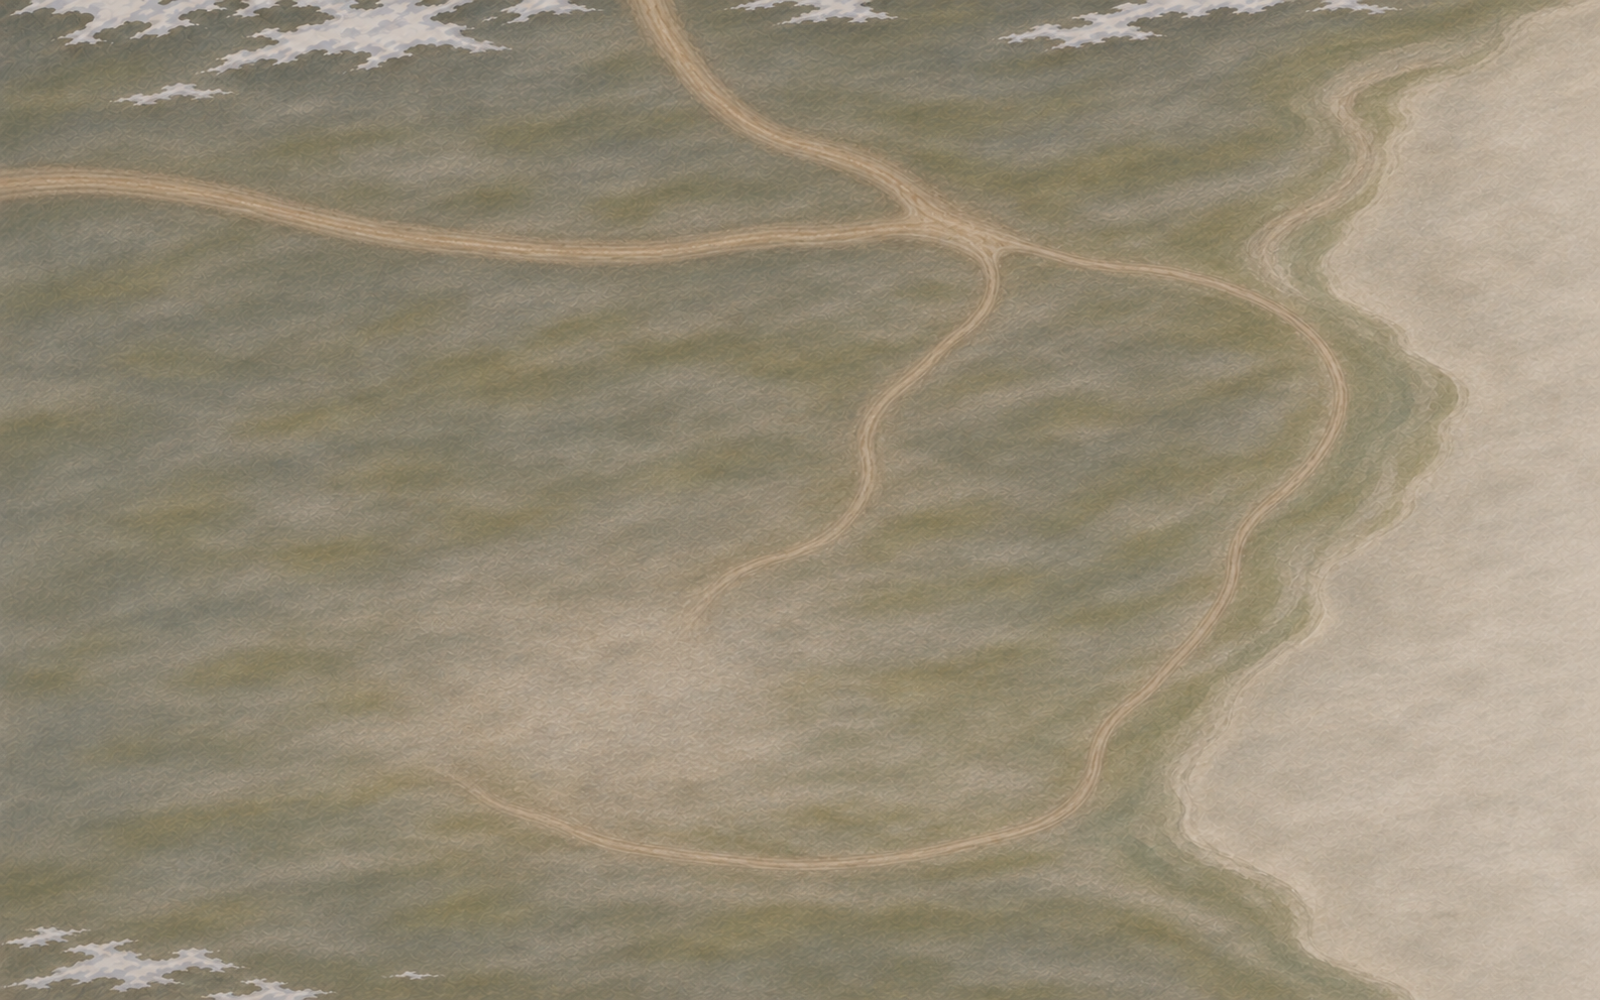
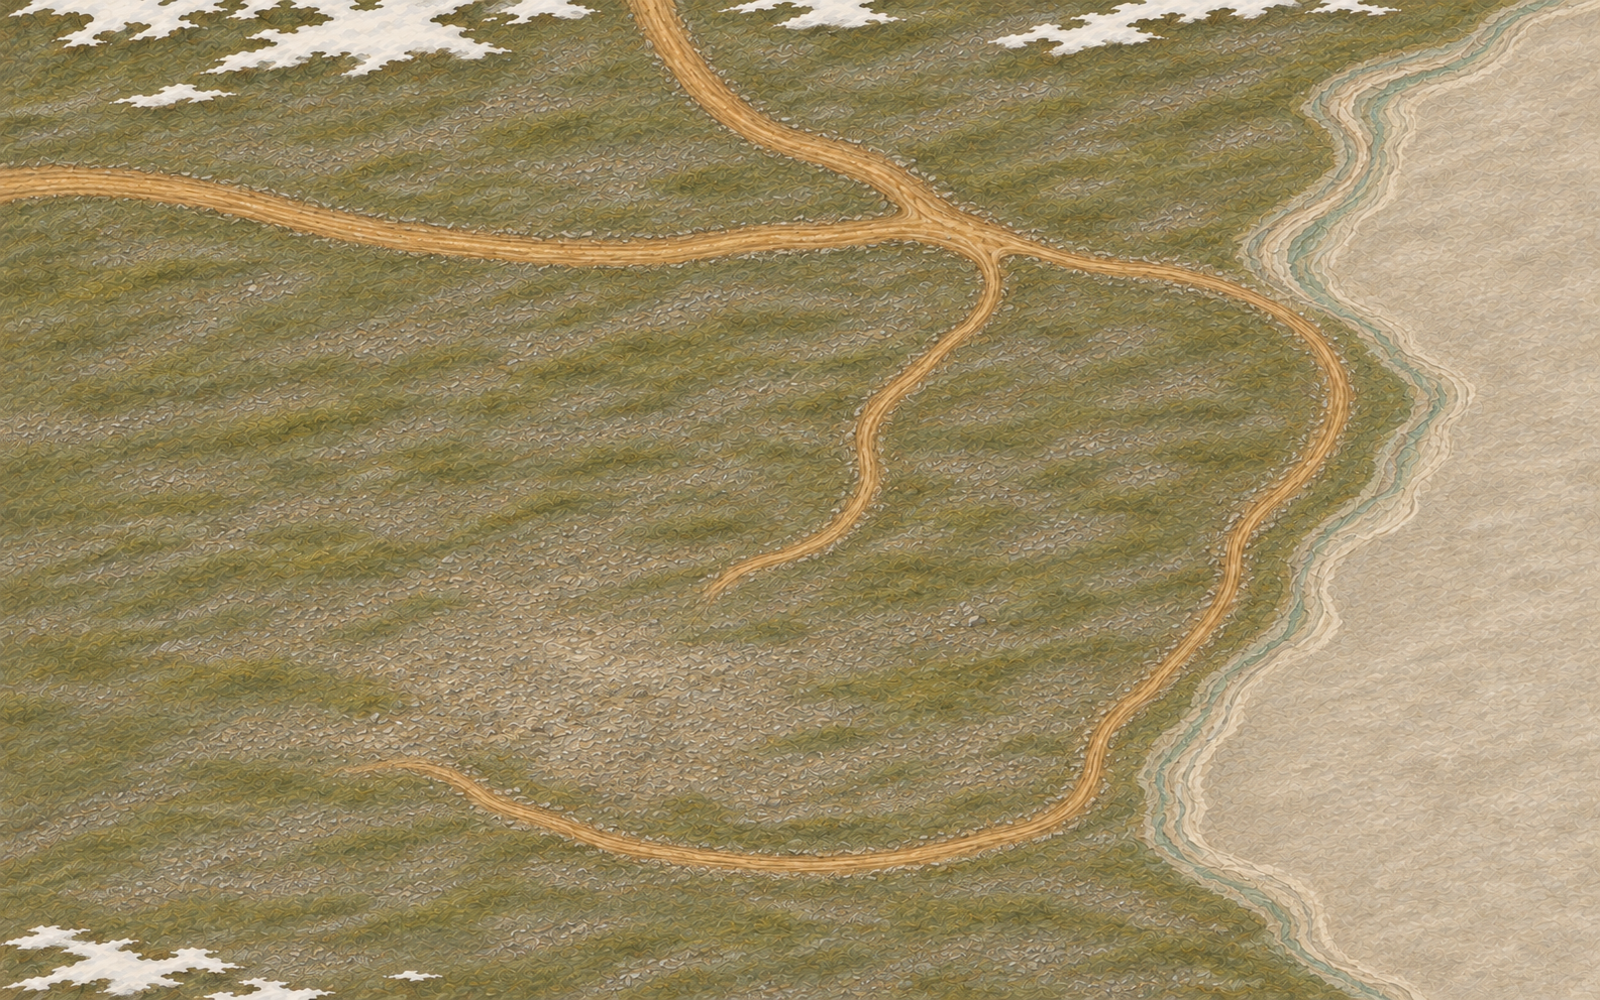
Refine Altai manuscript terrain and frame

diff --git a/tests/unit/altaiTavanBogdLevel.test.ts b/tests/unit/altaiTavanBogdLevel.test.ts
@@ -40,7 +40,7 @@ describe('Altai Tavan Bogd authored level', () => {
     expect(ALTAI_TAVAN_BOGD.world).toMatchObject({
       width: 6400,
       height: 4000,
-      terrainSize: 6400,
+      terrainSize: 8000,
       minX: -3200,
       minY: -2000,
       campClearRadius: 520,
@@ -51,6 +51,21 @@ describe('Altai Tavan Bogd authored level', () => {
     expect(ALTAI_TAVAN_BOGD.rise).toBe(240);
     expect(ALTAI_TAVAN_BOGD.plateaus).toHaveLength(1);
     expect(ALTAI_TAVAN_BOGD.plateaus[0]!.ramps).toHaveLength(2);
+    const region = WORLD_REGIONS['altai-tavan-bogd'];
+    expect(region.playBounds).toEqual({ x: -3200, y: -2000, width: 6400, height: 4000 });
+    expect(terrain.playBounds).toEqual({ x: 800, y: 2000, width: 6400, height: 4000 });
+    expect(region.terrainSize! - terrain.playBounds.x - terrain.playBounds.width).toBe(800);
+    expect(region.terrainSize! - terrain.playBounds.y - terrain.playBounds.height).toBe(2000);
+  });
+
+  it('frames the playable valley with distant peaks and rock-finished ramp shoulders', () => {
+    const peaks = ALTAI_TAVAN_BOGD.landmarks.filter(({ role }) => role === 'peak-frame');
+    expect(peaks).toHaveLength(5);
+    for (const peak of peaks) expect(peak.y).toBeLessThan(ALTAI_TAVAN_BOGD.world.minY);
+    expect(ALTAI_TAVAN_BOGD.landmarks.find(({ role }) => role === 'glacier')!.y).toBeLessThan(
+      ALTAI_TAVAN_BOGD.world.minY,
+    );
+    expect(ALTAI_TAVAN_BOGD.landmarks.filter(({ id }) => id.includes('ramp-cap'))).toHaveLength(4);
   });
 
   it('keeps every track endpoint at a named site and inside the playable rectangle', () => {
@@ -76,7 +91,7 @@ describe('Altai Tavan Bogd authored level', () => {
   });
 
   it('projects authored terrain, water, camp and ramps while retaining the generated fallback', () => {
-    expect(terrain.playBounds).toEqual({ x: 0, y: 1200, width: 6400, height: 4000 });
+    expect(terrain.playBounds).toEqual({ x: 800, y: 2000, width: 6400, height: 4000 });
     expect(terrain.campPosition).toEqual(world(ALTAI_TAVAN_BOGD_SITES.camp));
     expect(terrain.river?.definition).toEqual(ALTAI_TAVAN_BOGD.lake);
     expect(WORLD_REGIONS['altai-tavan-bogd'].shelves).toHaveLength(1);
@@ -101,7 +116,7 @@ describe('Altai Tavan Bogd authored level', () => {
     expect(altaiTavanBogdPaintedGroundEnabled('', true)).toBe(true);
     expect(altaiTavanBogdPaintedGroundEnabled('?altaiTavanBogdPaintedGround=0', true)).toBe(false);
     expect(altaiTavanBogdPaintedGroundEnabled('?altaiTavanBogdPaintedGround=0', false)).toBe(true);
-    expect(altaiTavanBogdPaintedGroundWorldBounds(6400)).toEqual([0, 1200, 6400, 4000]);
+    expect(altaiTavanBogdPaintedGroundWorldBounds(8000)).toEqual([800, 2000, 6400, 4000]);
     for (const quadrant of PAINTED_GROUND_QUADRANTS) {
       const painting = ALTAI_TAVAN_BOGD_PAINTED_GROUND.quadrants[quadrant];
       const png = readFileSync(resolve(`public/art/altai-tavan-bogd/${painting.file}`));

diff --git a/src/game/data/altaiTavanBogd.ts b/src/game/data/altaiTavanBogd.ts
@@ -85,7 +85,7 @@ export const ALTAI_TAVAN_BOGD: AltaiTavanBogdLayout = {
   world: {
     width: 6400,
     height: 4000,
-    terrainSize: 6400,
+    terrainSize: 8000,
     minX: -3200,
     minY: -2000,
     camp: ALTAI_TAVAN_BOGD_SITES.camp,
@@ -159,8 +159,8 @@ export const ALTAI_TAVAN_BOGD: AltaiTavanBogdLayout = {
       texture: 'steppe-scenery',
       frame: 'pyramid',
       x: -2550,
-      y: -1790,
-      width: 330,
+      y: -2260,
+      width: 520,
       role: 'peak-frame',
     },
     {
@@ -168,8 +168,8 @@ export const ALTAI_TAVAN_BOGD: AltaiTavanBogdLayout = {
       texture: 'steppe-scenery',
       frame: 'snow-dome',
       x: -1650,
-      y: -1860,
-      width: 350,
+      y: -2310,
+      width: 600,
       role: 'peak-frame',
       flip: true,
     },
@@ -178,8 +178,8 @@ export const ALTAI_TAVAN_BOGD: AltaiTavanBogdLayout = {
       texture: 'steppe-scenery',
       frame: 'pyramid',
       x: -650,
-      y: -1810,
-      width: 390,
+      y: -2340,
+      width: 700,
       role: 'peak-frame',
     },
     {
@@ -187,8 +187,8 @@ export const ALTAI_TAVAN_BOGD: AltaiTavanBogdLayout = {
       texture: 'steppe-scenery',
       frame: 'snow-dome',
       x: 320,
-      y: -1840,
-      width: 350,
+      y: -2300,
+      width: 600,
       role: 'peak-frame',
     },
     {
@@ -196,8 +196,8 @@ export const ALTAI_TAVAN_BOGD: AltaiTavanBogdLayout = {
       texture: 'steppe-scenery',
       frame: 'pyramid',
       x: 1180,
-      y: -1680,
-      width: 320,
+      y: -2240,
+      width: 520,
       role: 'peak-frame',
       flip: true,
     },
@@ -206,9 +206,47 @@ export const ALTAI_TAVAN_BOGD: AltaiTavanBogdLayout = {
       texture: 'steppe-scenery',
       frame: 'glacier',
       x: 300,
-      y: -1230,
-      width: 520,
+      y: -2110,
+      width: 700,
       role: 'glacier',
+    },
+    {
+      id: 'west-ramp-cap-north',
+      texture: 'orkhon-valley-sprites',
+      frame: 'loose_pebbles',
+      x: -1800,
+      y: -370,
+      width: 108,
+      role: 'moraine',
+    },
+    {
+      id: 'west-ramp-cap-south',
+      texture: 'orkhon-valley-sprites',
+      frame: 'loose_pebbles',
+      x: -1500,
+      y: -330,
+      width: 108,
+      role: 'moraine',
+      flip: true,
+    },
+    {
+      id: 'east-ramp-cap-west',
+      texture: 'orkhon-valley-sprites',
+      frame: 'loose_pebbles',
+      x: 510,
+      y: -495,
+      width: 108,
+      role: 'moraine',
+    },
+    {
+      id: 'east-ramp-cap-east',
+      texture: 'orkhon-valley-sprites',
+      frame: 'loose_pebbles',
+      x: 790,
+      y: -625,
+      width: 108,
+      role: 'moraine',
+      flip: true,
     },
     {
       id: 'boulder-meadow-west',

diff --git a/src/game/world3d/World3DRenderer.ts b/src/game/world3d/World3DRenderer.ts
@@ -229,7 +229,7 @@ export class World3DRenderer {
         terrain.river,
         terrain,
         this.materials.bedTexture,
-        this.materials.waterTextures,
+        terrain.region.scene.id === 'altai-tavan-bogd' ? undefined : this.materials.waterTextures,
         terrain.region.scene.id !== 'khan-tengri',
         terrain.region.scene.id !== 'khan-tengri' || paintedGround === undefined,
       );

diff --git a/docs/altai-tavan-bogd.md b/docs/altai-tavan-bogd.md
@@ -15,8 +15,8 @@ Ovoo.
   seams, with a 520-unit spawn-safe clearing.
 - One irregular northern moraine terrace forms the upper tier, 240 units above the valley.
 - Broad west and east ramp cuts complete a loop across the moraine and back to the lower valley.
-- Five existing snowy-peak cutouts and a glacier cutout frame the impassable northern edge.
-- An impassable turquoise glacial channel broadens into the long lake along the eastern edge.
+- Five existing snowy-peak cutouts and a glacier cutout form a distant wall beyond the impassable northern play bound.
+- An impassable calm turquoise glacial channel broadens into the long lake along the eastern edge.
 - The main circuit joins camp, both ramps, the western moraine pass, Potanin overlook, lake shore
   and lower-valley junction. Lower branches join the boulder meadow and southern lake meadow.
 
@@ -28,8 +28,14 @@ moraine centre and ramp approaches remain broad horde-combat spaces.
 The existing authored-level renderer owns elevation, cliff walls, graded ramps, water, collision,
 navigation, props and shadows. Four 1,600 × 1,000 ground paintings project over the 3,200 × 2,000
 NW, NE, SW and SE quadrants. They contain horizontal ground only: silver-green gravel, muted sage,
-tracks, scree, snow patches, glacier silt and pale lake banks. The raised moraine uses the same
-matte manuscript language as the lower valley, shifted cooler and darker.
+tracks, angular scree, sharp snow patches, glacier silt and pale lake banks. Crisp, visible gouache
+strokes keep gravel, grass and tracks legible at play scale. The raised moraine uses the same matte
+manuscript language as the lower valley, shifted cooler and darker.
+
+The 8,000-unit terrain canvas surrounds the 6,400 × 4,000 playable rectangle with 800-unit side
+buffers and 2,000-unit north/south buffers, so the angled camera never exposes an unpainted world
+edge. The painted quadrants still project only over the playable rectangle; the buffer uses the
+matching tiled fallback.
 
 The shared 1,024² grayscale detail layer restores close paper and brush grain in world space.
 The four paintings occupy 34,131,696 bytes (32.55 MiB) with complete mip chains; including the
